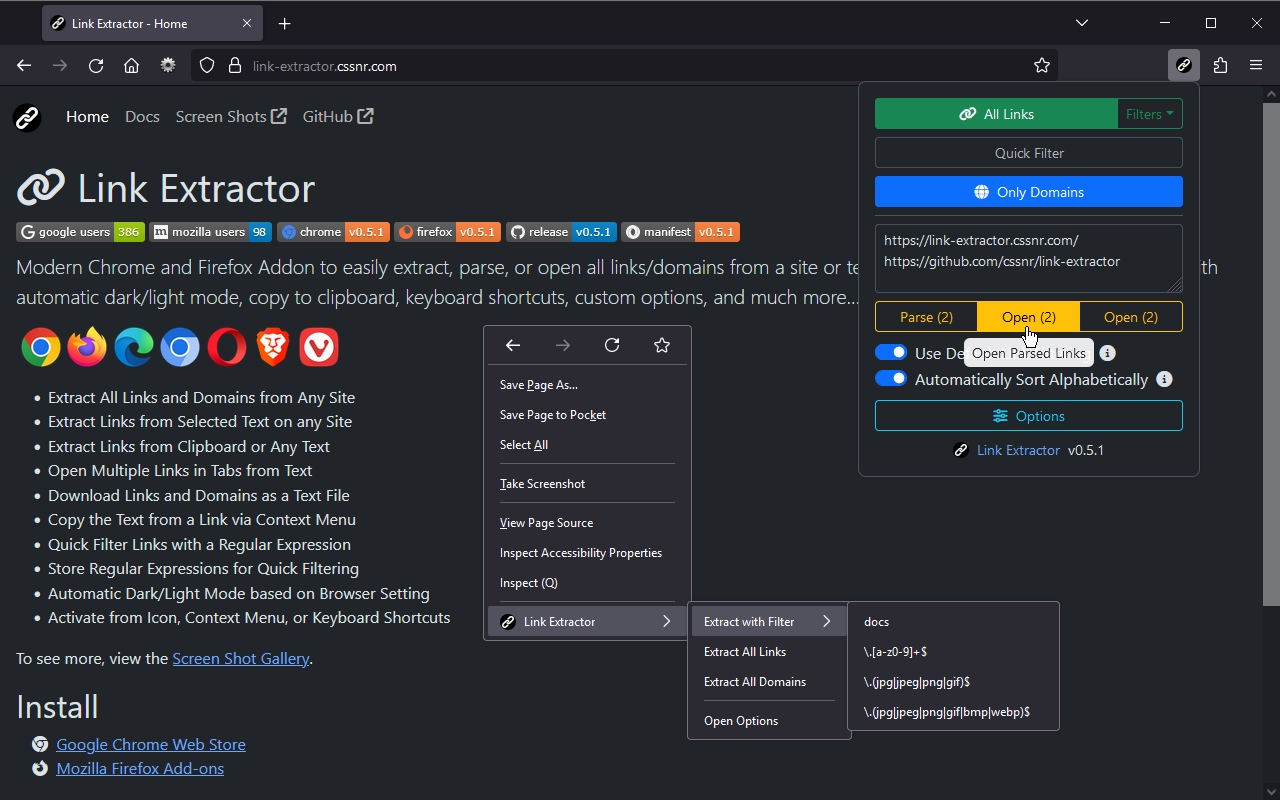
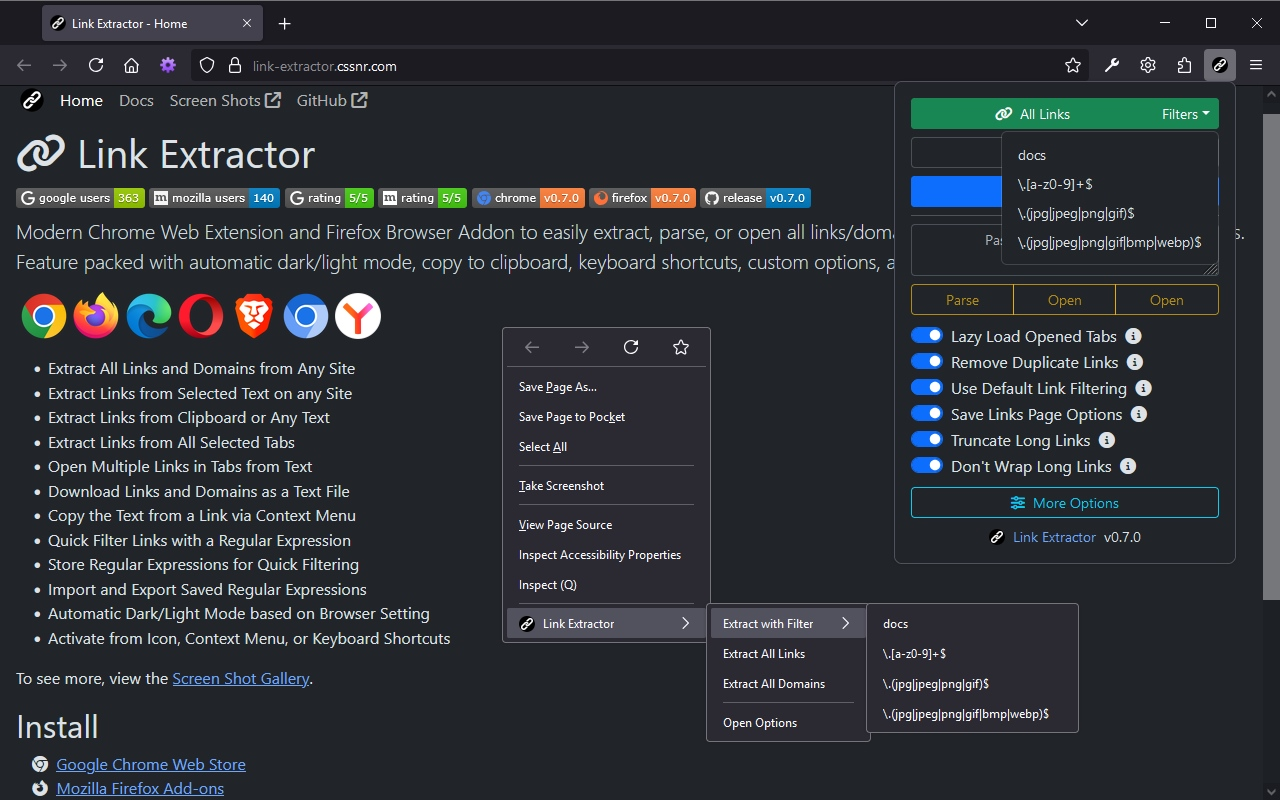
Update Screenshots

diff --git a/genshots.js b/genshots.js
@@ -1,20 +1,23 @@
+const fs = require('fs')
+
 const repoDir = './src/screenshots'
+const varsFile = './src/js/vars.js'
+const varName = 'screenShots'
 const relPath = ''
 
-const fs = require('fs')
 const files = []
 fs.readdirSync(repoDir).forEach((file) => {
-    files.push(file)
+    files.push(`${relPath}${file}`)
 })
 console.log(files)
 
-const file = fs.createWriteStream('./src/js/vars.js')
+const file = fs.createWriteStream(varsFile)
 file.on('error', function (err) {
     console.error('err', err)
 })
-file.write('const screenShots = [\n')
+file.write(`const ${varName} = [\n`)
 files.forEach(function (x) {
-    file.write(`    '${relPath}${x}',\n`)
+    file.write(`    '${x}',\n`)
 })
 file.write(']\n')
 file.end()

diff --git a/src/js/vars.js b/src/js/vars.js
@@ -3,4 +3,6 @@ const screenShots = [
     '02.jpg',
     '03.jpg',
     '04.jpg',
+    '05.jpg',
+    '06.jpg',
 ]
